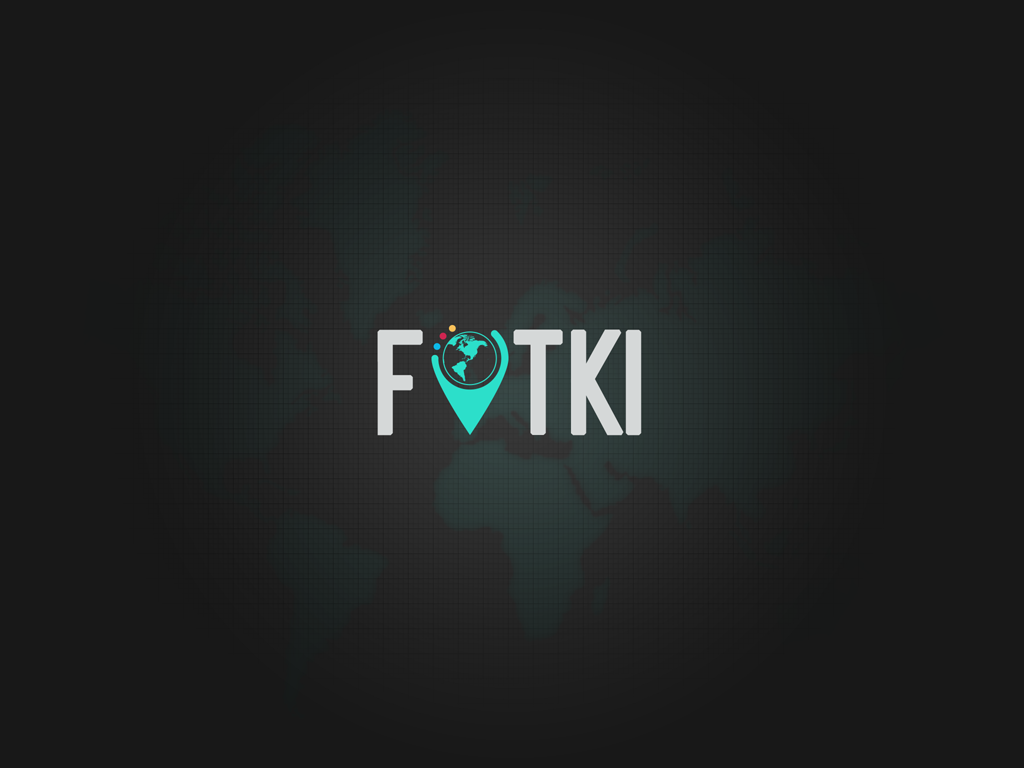
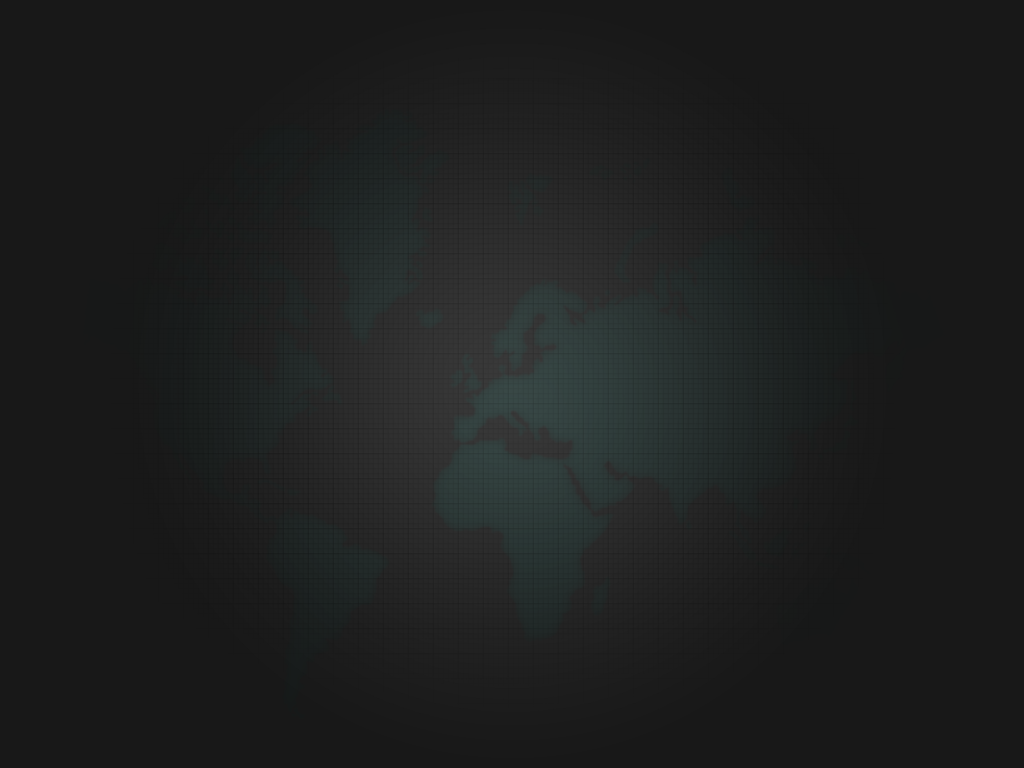
xx

Changed region(s): [[0.3438, 0.4062, 0.625, 0.5938]]

diff --git a/Fotki/MainViewController.m b/Fotki/MainViewController.m
@@ -12,6 +12,7 @@
 
 @property (weak, nonatomic) IBOutlet UIBarButtonItem *sidebarButton;
 @property (weak, nonatomic) IBOutlet UINavigationItem *navItem;
+@property (strong, nonatomic) UIImageView* backgroundView;
 
 @end
 
@@ -80,10 +81,9 @@
     UIImage *backgroundImage = [[UIImage alloc]init];
     backgroundImage = [UIImage imageNamed:@"backdrop.png"];
     
-    UIImageView *backgroundImageView = [[UIImageView alloc] initWithImage:backgroundImage];
-    [backgroundImageView setFrame:CGRectMake(0, 0,[backgroundImage size].width, [backgroundImage size].height)];
-    [self.view addSubview:backgroundImageView];
-
+    self.backgroundView = [[UIImageView alloc] initWithImage:backgroundImage];
+    [self.backgroundView setFrame:CGRectMake(0, 0,[backgroundImage size].width, [backgroundImage size].height)];
+    [self.view addSubview:self.backgroundView];
 }
 
 -(CGSize)collectionView:(UICollectionView *)collectionView layout:(UICollectionViewLayout *)collectionViewLayout sizeForItemAtIndexPath:(NSIndexPath *)indexPath {
@@ -251,6 +251,7 @@
                  self.progress.hidden = YES;
                  self.collectionView.hidden = NO;
                  
+                 [self.backgroundView removeFromSuperview];
                  [self.collectionView reloadData];
              }
          }];

diff --git a/Fotki/SidebarViewController.m b/Fotki/SidebarViewController.m
@@ -217,7 +217,6 @@
     return cell;
 }
 
-
 - (BOOL)textFieldShouldReturn:(UITextField *)textField
 {
     [textField resignFirstResponder];
@@ -233,6 +232,7 @@
 
     
 }
+
 - (void) prepareForSegue: (UIStoryboardSegue *) segue sender: (id) sender
 {
     // Set the title of navigation bar by using the menu items
